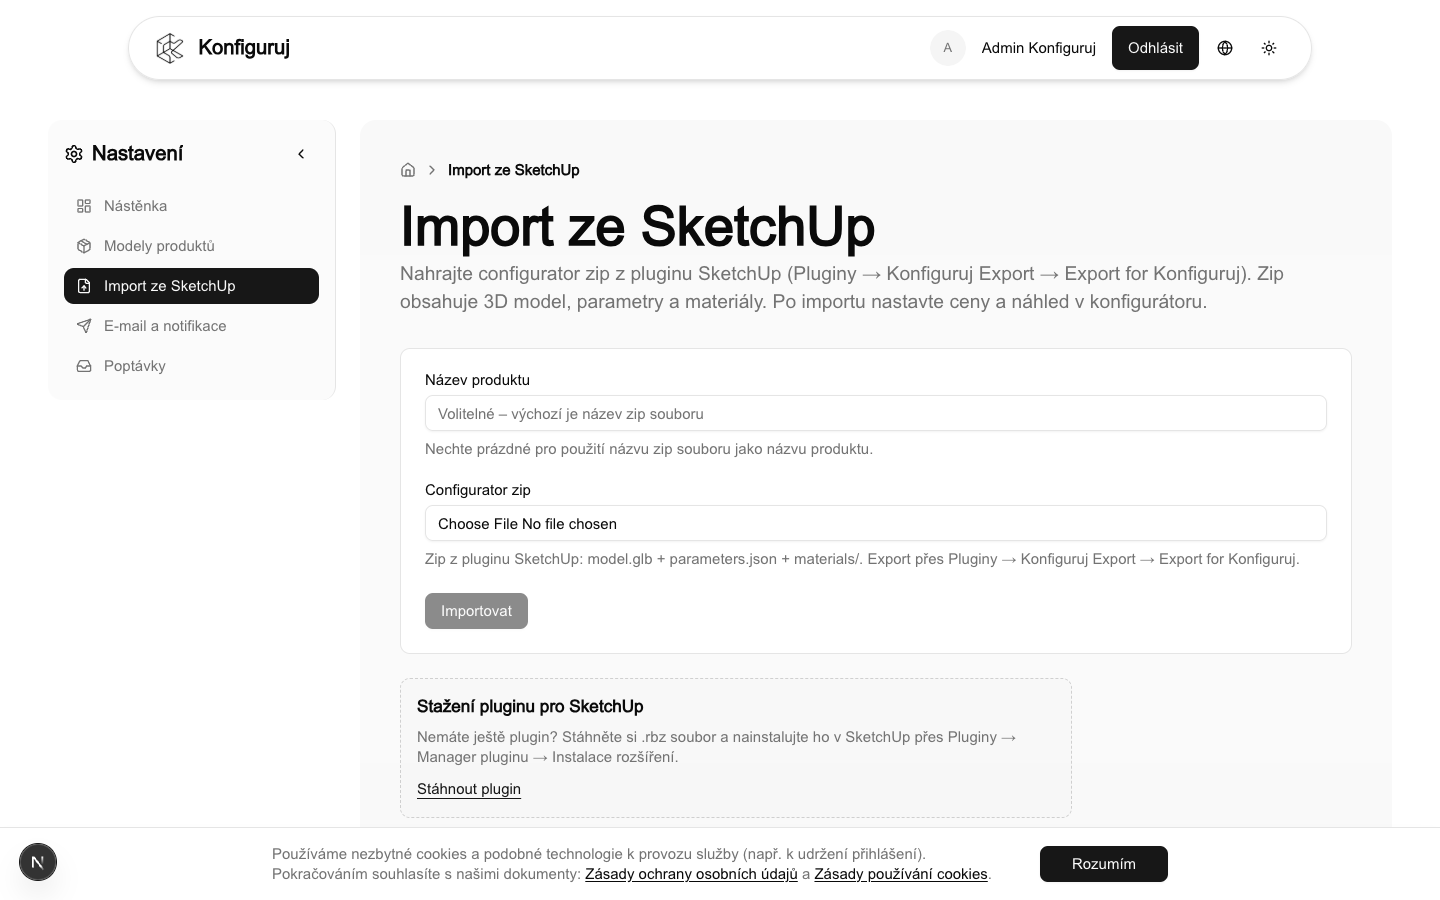
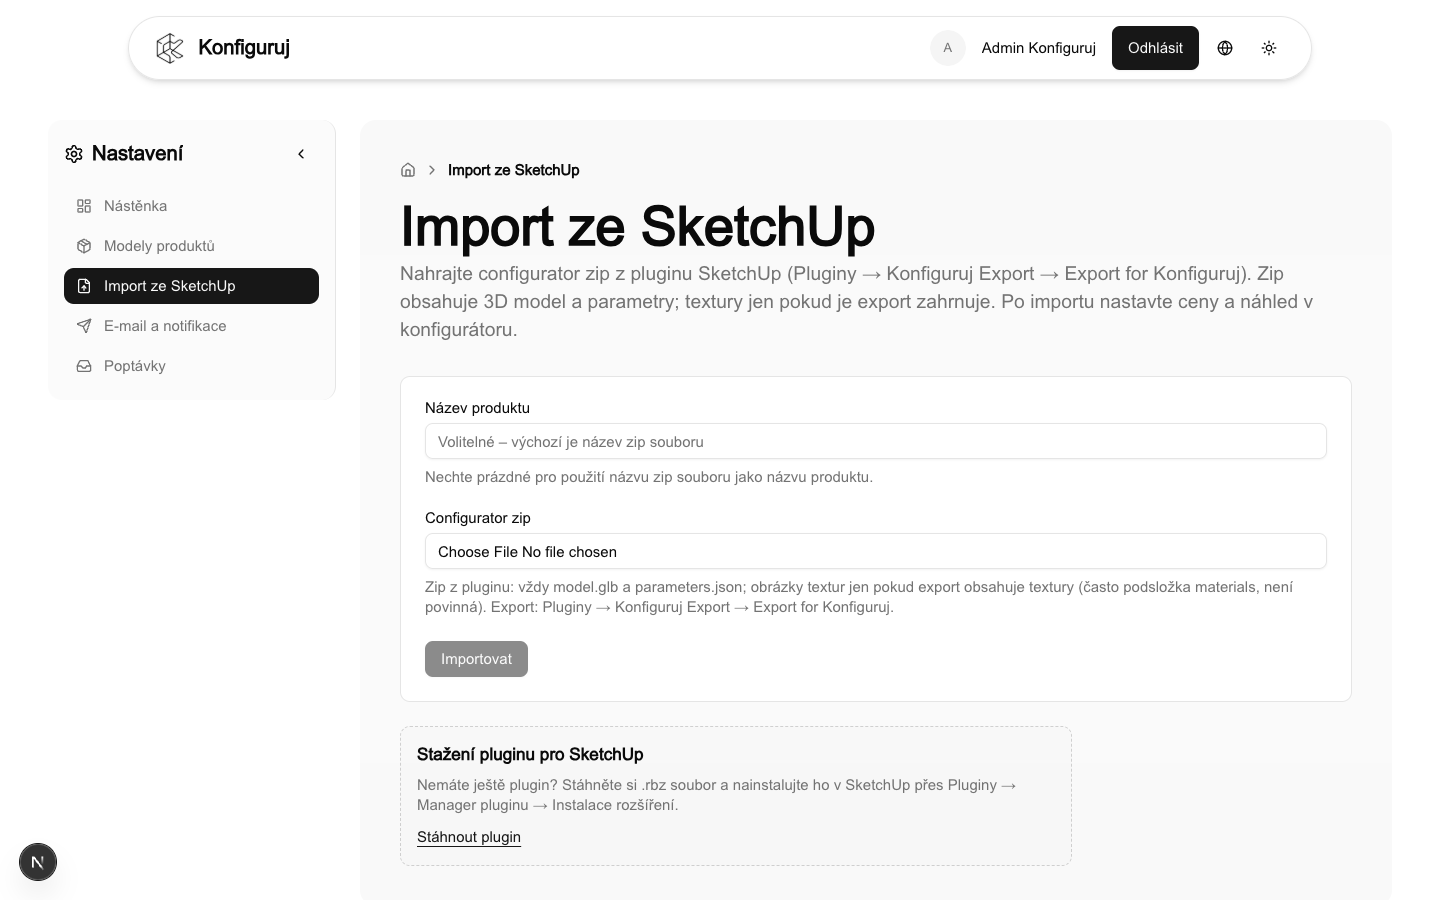
chore: improve configuration selections

diff --git a/frontend/apps/nextjs/src/features/configurator/components/AttributeConfiguration.tsx b/frontend/apps/nextjs/src/features/configurator/components/AttributeConfiguration.tsx
@@ -246,9 +246,6 @@ const AttributeField = ({
           className="text-sm"
         >
           {attribute.label}
-          {displayUnit?.trim() && (
-            <span className="ml-1 font-normal text-muted-foreground">({displayUnit})</span>
-          )}
         </Label>
         <div className="flex items-center gap-2">
           <Input
@@ -321,9 +318,6 @@ const AttributeField = ({
           className="text-sm"
         >
           {attribute.label}
-          {displayUnit?.trim() && (
-            <span className="ml-1 font-normal text-muted-foreground">({displayUnit})</span>
-          )}
         </Label>
         <div className="flex items-center gap-2">
           <Input
@@ -490,8 +484,10 @@ const AttributeSelect = ({
         aria-labelledby={`attr-${attributeId}-label`}
         aria-label={attributeLabel}
         className={cn(
-          "flex flex-wrap gap-2",
-          hasImages && "grid grid-cols-3 gap-2 sm:grid-cols-4 md:grid-cols-5",
+          "grid w-full justify-start gap-2",
+          hasImages
+            ? "auto-rows-[2.5rem] grid-cols-[repeat(auto-fill,2.5rem)]"
+            : "auto-rows-[1.75rem] grid-cols-[repeat(auto-fill,1.75rem)]",
         )}
       >
         {sortedOptions.map((opt, optIndex) => {
@@ -510,17 +506,19 @@ const AttributeSelect = ({
                   aria-label={ariaLabel}
                   onClick={() => onSelectOption(opt)}
                   className={cn(
-                    "flex min-w-0 flex-col rounded-md transition-colors",
+                    "size-full min-w-0 rounded-md border-0 transition-colors",
                     isSelected
-                      ? "bg-primary/10 ring-2 ring-primary ring-offset-2 ring-offset-background"
-                      : "bg-muted/50 hover:bg-muted",
-                    hasImages ? "items-center p-1.5" : "items-center justify-center px-2 py-2",
+                      ? "bg-primary/10"
+                      : "bg-neutral-50 hover:bg-neutral-100/90 dark:bg-muted/35 dark:hover:bg-muted/50",
+                    hasImages
+                      ? "flex items-center justify-center p-0.5"
+                      : "flex items-center justify-center p-0",
                   )}
                 >
                   {hasImages ? (
                     <div
                       className={cn(
-                        "relative mx-auto aspect-square w-full max-w-[3.5rem] shrink-0 overflow-hidden rounded-md bg-muted",
+                        "relative aspect-square w-full overflow-hidden rounded-[0.25rem] bg-neutral-50 dark:bg-muted/35",
                         !opt.imageUrl && "flex items-center justify-center",
                       )}
                     >
@@ -531,7 +529,7 @@ const AttributeSelect = ({
                           fill
                           className="object-cover"
                           unoptimized
-                          sizes="56px"
+                          sizes="40px"
                         />
                       ) : (
                         <span
@@ -544,7 +542,7 @@ const AttributeSelect = ({
                     </div>
                   ) : (
                     <span
-                      className="flex min-h-10 min-w-10 items-center justify-center text-xs font-semibold text-muted-foreground tabular-nums"
+                      className="flex size-full items-center justify-center text-[10px] font-semibold text-muted-foreground tabular-nums"
                       aria-hidden
                     >
                       {optIndex + 1}
@@ -571,12 +569,10 @@ const AttributeSelect = ({
           variant="body-sm"
           className="text-muted-foreground"
         >
-          {optionDisplayName(selectedOption)}
+          {t("attributes.enumSelectedPrefix")} {optionDisplayName(selectedOption)}
           {selectedPriceSuffix && (
-            <span className="whitespace-nowrap text-muted-foreground">
-              {" ("}
-              {selectedPriceSuffix}
-              {")"}
+            <span className="whitespace-nowrap">
+              {t("attributes.enumPriceAdjustment", { adjustment: selectedPriceSuffix })}
             </span>
           )}
         </Typography>

diff --git a/frontend/apps/nextjs/src/features/embed/components/EmbedAttributeField.tsx b/frontend/apps/nextjs/src/features/embed/components/EmbedAttributeField.tsx
@@ -95,14 +95,20 @@ export const EmbedAttributeField = ({
 
     return (
       <div className="space-y-2">
-        <Label id={`attr-${attribute.id}-label`}>{attribute.label}</Label>
+        <Label
+          id={`attr-${attribute.id}-label`}
+          className="text-muted-foreground"
+        >
+          {attribute.label}
+        </Label>
         <div
           role="listbox"
           aria-labelledby={`attr-${attribute.id}-label`}
           aria-label={attribute.label}
           className={cn(
-            "flex flex-wrap gap-1.5",
-            hasImages && "grid grid-cols-4 gap-2 sm:grid-cols-5 md:grid-cols-6",
+            "flex flex-wrap content-start justify-start gap-2",
+            hasImages &&
+              "grid w-full [grid-auto-rows:auto] grid-cols-[repeat(auto-fill,2rem)] justify-start",
           )}
         >
           {sortedOptions.map((opt) => {
@@ -122,23 +128,25 @@ export const EmbedAttributeField = ({
                 aria-selected={isSelected}
                 onClick={() => onSelectOption(opt)}
                 className={cn(
-                  "flex min-h-[36px] min-w-0 touch-manipulation flex-col items-center justify-center gap-0.5 rounded border-2 transition-colors",
+                  "touch-manipulation rounded border-0 transition-colors",
                   isSelected
-                    ? "border-primary bg-primary/10 text-primary"
-                    : "border-border bg-muted/30 text-muted-foreground hover:border-primary/50 hover:bg-muted",
-                  hasImages ? "overflow-hidden p-0" : "px-2 py-1 text-xs font-medium",
+                    ? "bg-primary/10 text-primary"
+                    : "bg-neutral-50 text-muted-foreground hover:bg-neutral-100/90 dark:bg-muted/35 dark:hover:bg-muted/50",
+                  hasImages
+                    ? "flex w-8 shrink-0 flex-col items-center gap-0.5 overflow-hidden p-0"
+                    : "flex min-h-7 min-w-0 items-center px-1.5 py-0.5 text-[11px] font-medium",
                 )}
               >
                 {hasImages && opt.imageUrl ? (
                   <>
-                    <div className="relative mx-auto aspect-square w-10 shrink-0 overflow-hidden rounded-sm bg-muted">
+                    <div className="relative aspect-square w-full shrink-0 overflow-hidden rounded-sm bg-neutral-50 dark:bg-muted/35">
                       <Image
                         src={getImageUrlForDisplay(opt.imageUrl)}
                         alt={opt.label}
                         fill
                         className="object-cover"
                         unoptimized
-                        sizes="40px"
+                        sizes="32px"
                       />
                     </div>
                     {hasPrice && (
@@ -201,12 +209,7 @@ export const EmbedAttributeField = ({
     }
     return (
       <div className="space-y-2">
-        <Label htmlFor={`attr-${attribute.id}`}>
-          {attribute.label}
-          {attribute.unit?.trim() && (
-            <span className="ml-1 font-normal text-muted-foreground">({attribute.unit})</span>
-          )}
-        </Label>
+        <Label htmlFor={`attr-${attribute.id}`}>{attribute.label}</Label>
         <div className="flex items-center gap-2">
           <Input
             id={`attr-${attribute.id}`}
@@ -262,12 +265,7 @@ export const EmbedAttributeField = ({
     }
     return (
       <div className="space-y-2">
-        <Label htmlFor={`attr-${attribute.id}`}>
-          {attribute.label}
-          {attribute.unit?.trim() && (
-            <span className="ml-1 font-normal text-muted-foreground">({attribute.unit})</span>
-          )}
-        </Label>
+        <Label htmlFor={`attr-${attribute.id}`}>{attribute.label}</Label>
         <div className="flex items-center gap-2">
           <Input
             id={`attr-${attribute.id}`}

diff --git a/frontend/apps/nextjs/src/features/embed/components/EmbedConfigurator.tsx b/frontend/apps/nextjs/src/features/embed/components/EmbedConfigurator.tsx
@@ -251,8 +251,8 @@ export const EmbedConfigurator = ({
         </div>
       )}
 
-      <div className="flex w-full flex-col gap-4 lg:grid lg:grid-cols-3 lg:items-stretch lg:gap-4">
-        <div className="relative z-0 order-2 flex min-h-0 w-full flex-col items-center justify-center lg:order-none lg:col-span-2">
+      <div className="flex w-full flex-col gap-4 lg:grid lg:grid-cols-3 lg:items-start lg:gap-4">
+        <div className="relative z-0 order-2 flex w-full flex-col items-center justify-center lg:order-none lg:col-span-2">
           <VisualPreview
             productModelId={product.id}
             selectedComponentId={activeComponentId}
@@ -270,7 +270,7 @@ export const EmbedConfigurator = ({
           />
         </div>
 
-        <div className="order-1 flex min-h-0 flex-1 flex-col gap-3 overflow-hidden lg:order-none lg:max-h-full">
+        <div className="order-1 flex w-full flex-col gap-3 lg:order-none">
           <div className="flex shrink-0 flex-col gap-2">
             <Card className="p-3 shadow-sm">
               <div className="flex items-baseline justify-between gap-2">

diff --git a/frontend/apps/nextjs/src/app/[locale]/layout.tsx b/frontend/apps/nextjs/src/app/[locale]/layout.tsx
@@ -3,6 +3,7 @@ import { cn } from "@workspace/ui/lib/utils"
 
 import { FooterOrNull } from "@/components/Footer/FooterOrNull"
 import { HeaderOrNull } from "@/components/Header/HeaderOrNull"
+import { MainContent } from "@/components/layout/MainContent"
 import { CookieConsentBanner } from "@/components/legal/CookieConsentBanner"
 import { Providers } from "@/components/Providers"
 import { SidebarProvider } from "@/components/SetupNavigation/useSidebar"
@@ -77,15 +78,7 @@ export default async function LocaleLayout({ children, params }: Props) {
           <Providers>
             <SidebarProvider>
               <HeaderOrNull />
-              <main
-                className={cn(
-                  "flex min-h-0 flex-1 flex-col px-4 py-4",
-                  "pt-[calc(4rem+env(safe-area-inset-top,0px))]",
-                  "sm:p-6 lg:p-12 lg:pt-30",
-                )}
-              >
-                {children}
-              </main>
+              <MainContent>{children}</MainContent>
               <FooterOrNull />
               <CookieConsentBanner />
             </SidebarProvider>

diff --git a/frontend/apps/nextjs/src/components/layout/MainContent.tsx b/frontend/apps/nextjs/src/components/layout/MainContent.tsx
@@ -1,0 +1,35 @@
+import { headers } from "next/headers"
+import { cn } from "@workspace/ui/lib/utils"
+
+const EMBED_PATH_MARKER = "/e/"
+
+type Props = {
+  children: React.ReactNode
+}
+
+/**
+ * Embed routes skip the fixed header; without adjusting padding the main area keeps a 4rem
+ * top gap and the configurator uses negative margins. Use compact, viewport-height-aware padding
+ * so the iframe shows a full-screen layout with a single page scroll (no nested column scroll).
+ */
+export const MainContent = async ({ children }: Props) => {
+  const pathname = (await headers()).get("x-pathname") ?? ""
+  const isEmbed = pathname.includes(EMBED_PATH_MARKER)
+
+  return (
+    <main
+      className={cn(
+        "flex min-h-0 flex-1 flex-col",
+        isEmbed
+          ? "min-h-dvh px-0 pt-[max(0.5rem,env(safe-area-inset-top,0px))] pb-0"
+          : cn(
+              "px-4 py-4",
+              "pt-[calc(4rem+env(safe-area-inset-top,0px))]",
+              "sm:p-6 lg:p-12 lg:pt-30",
+            ),
+      )}
+    >
+      {children}
+    </main>
+  )
+}

diff --git a/frontend/apps/nextjs/src/components/legal/CookieConsentBanner.tsx b/frontend/apps/nextjs/src/components/legal/CookieConsentBanner.tsx
@@ -11,13 +11,26 @@ import { ROUTES } from "@/lib/routes"
 
 const STORAGE_KEY = "konfiguruj_cookie_notice_v1"
 
+function isEmbeddedInIframe(): boolean {
+  if (typeof window === "undefined") return false
+  try {
+    return window.self !== window.top
+  } catch {
+    return true
+  }
+}
+
 export const CookieConsentBanner = () => {
   const t = useTranslations("Legal.CookieBanner")
   const [isVisible, setIsVisible] = useState(false)
 
   useEffect(() => {
     try {
-      setIsVisible(typeof window !== "undefined" && localStorage.getItem(STORAGE_KEY) !== "1")
+      if (isEmbeddedInIframe()) {
+        setIsVisible(false)
+        return
+      }
+      setIsVisible(localStorage.getItem(STORAGE_KEY) !== "1")
     } catch {
       setIsVisible(true)
     }

diff --git a/frontend/apps/nextjs/src/app/[locale]/(embed)/e/layout.tsx b/frontend/apps/nextjs/src/app/[locale]/(embed)/e/layout.tsx
@@ -8,9 +8,8 @@ export default function EmbedLayout({ children }: Props) {
   return (
     <ConfiguratorQueryProvider>
       <div
-        className="-m-6 -mt-16 flex flex-col bg-background lg:-m-12 lg:-mt-30"
+        className="flex w-full flex-col bg-background"
         style={{
-          paddingTop: "env(safe-area-inset-top, 0px)",
           paddingLeft: "env(safe-area-inset-left, 0px)",
           paddingRight: "env(safe-area-inset-right, 0px)",
         }}
